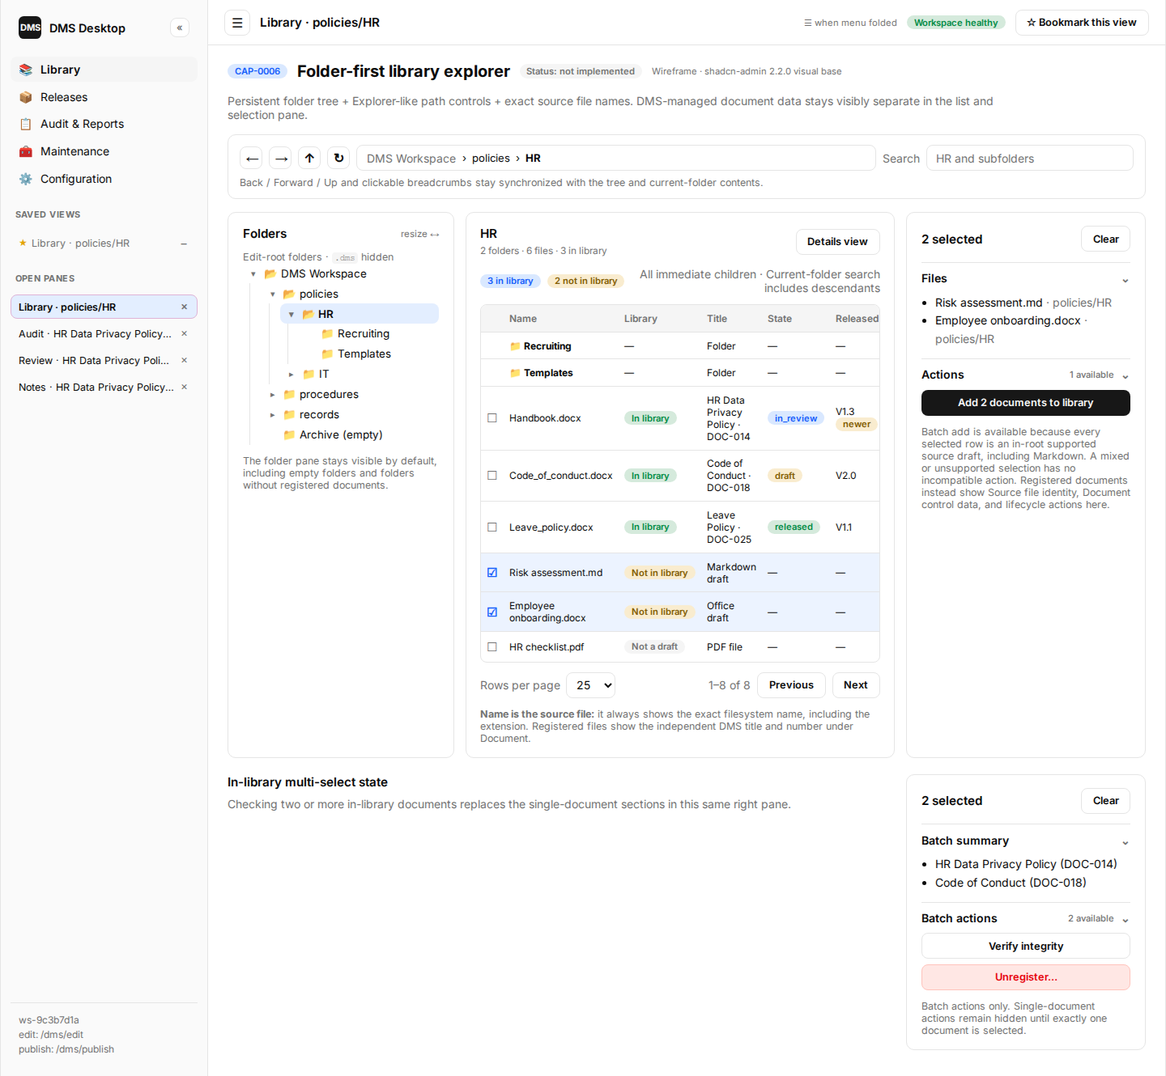
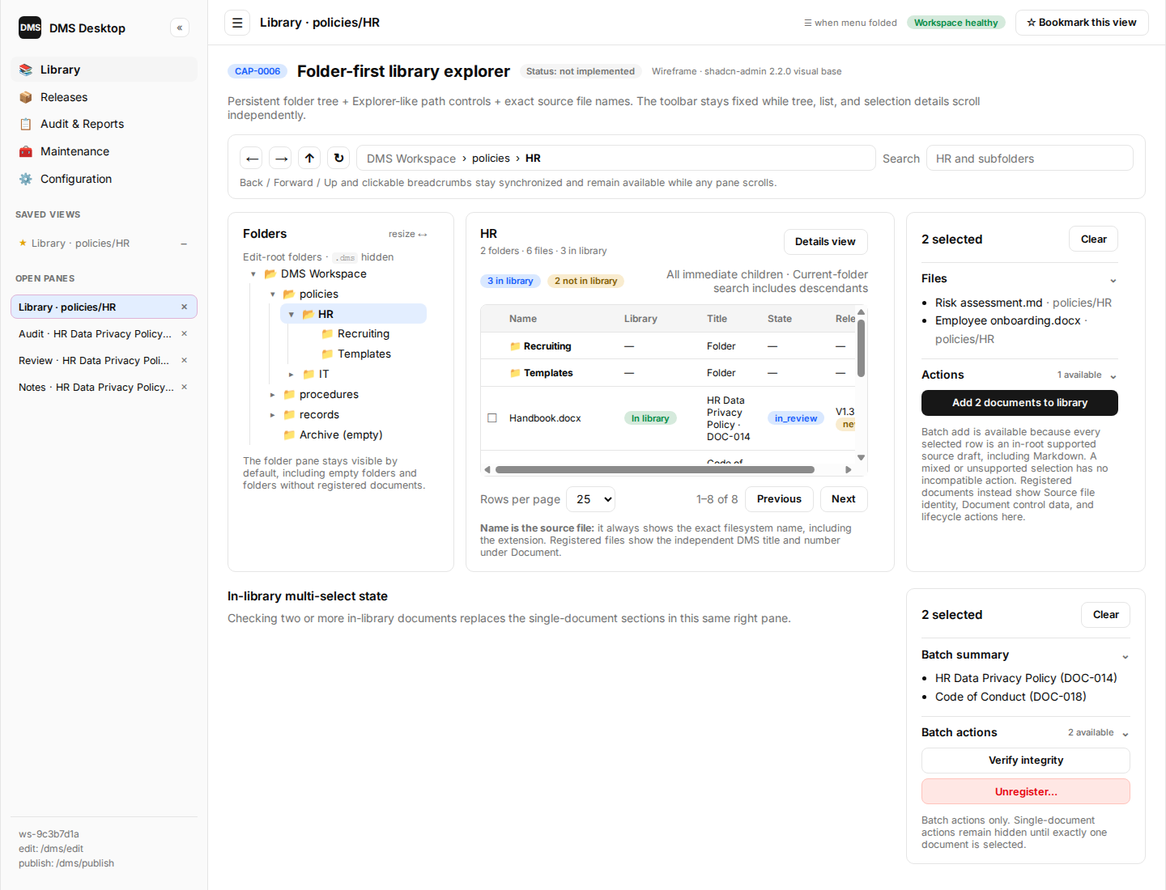
fix(dms): keep navigation fixed while scrolling
- Keep navigation usable while exhaustive document-control data, lifecycle forms, release history, and evidence scroll within their own regions.
- Preserve the sidebar, activity header, and Library path toolbar while normal activities, sidebar groups, the folder tree, file table, and selection pane scroll independently.
- Constrain the desktop shell to the viewport, add regression coverage, and refresh the capability records and wireframes.

This change prevents long workspace content from displacing the controls operators need to navigate the Library.

Verification:
- 55 frontend tests
- cargo fmt, workspace tests, Clippy, and release build
- browser computed-layout and visual QA
- Markdown link/table checks and git diff --check

Affected files/components:
- crates/dms-desktop/ui/styles.css and app.test.mjs
- crates/dms-desktop/AGENTS.md
- docs/product/capabilities/CAP-0005, CAP-0006, and CAP-0015
- docs/product/wireframes generator, HTML, and PNG exports
- docs/changes/active/CHG-0001-tauri-local-dms-bootstrap.md

diff --git a/crates/dms-desktop/ui/styles.css b/crates/dms-desktop/ui/styles.css
@@ -6,14 +6,17 @@
 }
 
 * { box-sizing: border-box; }
-body { margin: 0; min-width: 900px; min-height: 600px; }
+html { height: 100%; }
+body { height: 100%; margin: 0; min-width: 900px; min-height: 600px; overflow: hidden; }
 button, input, textarea { font: inherit; }
 button { cursor: pointer; }
 
 .app {
   display: grid;
   grid-template-columns: 272px minmax(0, 1fr);
-  min-height: 100vh;
+  height: 100vh;
+  min-height: 600px;
+  overflow: hidden;
 }
 
 .app.sidebar-collapsed { grid-template-columns: 64px minmax(0, 1fr); }
@@ -22,7 +25,9 @@ button { cursor: pointer; }
   display: flex;
   flex-direction: column;
   gap: 10px;
+  min-height: 0;
   min-width: 0;
+  overflow: hidden;
   padding: 12px;
   color: #15212c;
   background: #eef2f5;
@@ -82,6 +87,7 @@ button { cursor: pointer; }
   text-transform: uppercase;
 }
 .empty-group { margin: 4px 8px; color: #6c7b87; font-size: 13px; }
+#expanded-groups { min-height: 0; flex: 1; overflow-y: auto; overscroll-behavior: contain; scrollbar-gutter: stable; }
 
 .collapsed-only { display: none; }
 .sidebar-collapsed .expanded-only { display: none !important; }
@@ -120,9 +126,10 @@ button { cursor: pointer; }
   overflow-wrap: anywhere;
 }
 
-.workspace-shell { display: flex; min-width: 0; flex-direction: column; }
+.workspace-shell { display: flex; min-width: 0; min-height: 0; flex-direction: column; overflow: hidden; }
 .main-header {
   display: flex;
+  flex: 0 0 auto;
   align-items: center;
   gap: 12px;
   min-height: 60px;
@@ -132,7 +139,7 @@ button { cursor: pointer; }
 }
 .main-header h1 { margin: 0; font-size: 16px; }
 .header-spacer { flex: 1; }
-.main-content { flex: 1; padding: 28px; }
+.main-content { min-height: 0; flex: 1; padding: 28px; overflow: auto; overscroll-behavior: contain; }
 
 .card {
   max-width: 860px;
@@ -194,6 +201,7 @@ button { cursor: pointer; }
 .library-workspace { display: flex; min-height: 0; height: 100%; flex-direction: column; background: white; }
 .library-toolbar {
   display: flex;
+  flex: 0 0 auto;
   align-items: center;
   gap: 7px;
   min-height: 58px;
@@ -216,14 +224,17 @@ button { cursor: pointer; }
 .sort-control { display: flex; align-items: center; gap: 5px; white-space: nowrap; color: #596a78; font-size: 12px; }
 .sort-control select { height: 32px; border: 1px solid #bdc9d2; border-radius: 6px; background: white; }
 .library-error { margin: 0; padding: 7px 16px; color: #922b21; background: #fff0ed; border-bottom: 1px solid #f0c8c1; font-size: 13px; }
-.library-grid { display: flex; min-height: 0; flex: 1; }
+.library-grid { display: flex; min-height: 0; flex: 1; overflow: hidden; }
 .folder-tree {
   width: 230px;
   min-width: 170px;
   max-width: 420px;
   flex: 0 0 auto;
+  min-height: 0;
   padding: 14px 8px;
   overflow: auto;
+  overscroll-behavior: contain;
+  scrollbar-gutter: stable;
   resize: horizontal;
   background: #f7f9fa;
   border-right: 1px solid #dfe5ea;
@@ -245,7 +256,7 @@ button { cursor: pointer; }
 .folder-contents h2 { margin: 3px 0 0; font-size: 19px; }
 .folder-contents header > span { color: #6b7b87; font-size: 12px; }
 .eyebrow { color: #6b7b87; font-size: 11px; font-weight: 700; letter-spacing: .05em; text-transform: uppercase; }
-.table-scroll { min-height: 0; flex: 1; overflow: auto; }
+.table-scroll { min-height: 0; flex: 1; overflow: auto; overscroll-behavior: contain; scrollbar-gutter: stable; }
 .table-scroll table { width: 100%; border-collapse: collapse; font-size: 13px; }
 .table-scroll th { position: sticky; z-index: 1; top: 0; padding: 8px 10px; color: #5f6f7b; background: #f8fafb; border-bottom: 1px solid #dfe5ea; text-align: left; white-space: nowrap; }
 .table-scroll td { max-width: 280px; padding: 9px 10px; border-bottom: 1px solid #edf0f2; overflow: hidden; text-overflow: ellipsis; white-space: nowrap; }
@@ -261,7 +272,7 @@ button { cursor: pointer; }
 .pagination-row select { height: 29px; border: 1px solid #bdc9d2; border-radius: 5px; background: white; }
 .pagination-row .text-button:disabled { opacity: .4; }
 .pagination-row .button:disabled { cursor: default; opacity: .4; }
-.selection-pane { width: 315px; min-width: 260px; flex: 0 0 auto; padding: 18px; overflow: auto; border-left: 1px solid #dfe5ea; background: #fbfcfd; }
+.selection-pane { width: 315px; min-width: 260px; min-height: 0; flex: 0 0 auto; padding: 18px; overflow: auto; overscroll-behavior: contain; scrollbar-gutter: stable; border-left: 1px solid #dfe5ea; background: #fbfcfd; }
 .selection-pane h3 { margin: 8px 0 4px; font-size: 18px; overflow-wrap: anywhere; }
 .selection-pane p { color: #61717d; line-height: 1.45; }
 .selection-empty { margin-top: 26px; text-align: center; }

diff --git a/docs/product/wireframes/html/CAP-0006-library-explorer.html b/docs/product/wireframes/html/CAP-0006-library-explorer.html
@@ -226,13 +226,25 @@ tr:last-child td { border-bottom: 0; }
         <span class="badge muted">Status: not implemented</span>
         <span class="wire-meta">Wireframe · shadcn-admin 2.2.0 visual base</span>
       </div>
-      <p class="subtitle">Persistent folder tree + Explorer-like path controls + exact source file names. DMS-managed document data stays visibly separate in the list and selection pane.</p>
+      <p class="subtitle">Persistent folder tree + Explorer-like path controls + exact source file names. The toolbar stays fixed while tree, list, and selection details scroll independently.</p>
       
       <style>
-        .app[data-cap="CAP-0006"] .list-card th,
-        .app[data-cap="CAP-0006"] .list-card td { padding: 0.55rem 0.45rem; font-size: 0.75rem; }
-      </style>
-      <section class="card" style="padding:0.75rem 0.9rem">
+    html, body { height: 100%; }
+    body { overflow: hidden; }
+    .app[data-cap="CAP-0006"] { height: 100vh; min-height: 0; overflow: hidden; }
+    .app[data-cap="CAP-0006"] .sidebar { min-height: 0; overflow-y: auto; overscroll-behavior: contain; }
+    .app[data-cap="CAP-0006"] .main { min-height: 0; overflow: hidden; }
+    .app[data-cap="CAP-0006"] .header { flex: 0 0 auto; }
+    .app[data-cap="CAP-0006"] .content { min-height: 0; overflow: auto; overscroll-behavior: contain; }
+    .app[data-cap="CAP-0006"] .list-card th,
+    .app[data-cap="CAP-0006"] .list-card td { padding: 0.55rem 0.45rem; font-size: 0.75rem; }
+    .app[data-cap="CAP-0006"] .explorer-toolbar { position: sticky; z-index: 4; top: 0; }
+    .app[data-cap="CAP-0006"] .explorer-panes { height: min(36rem, calc(100vh - 14rem)); min-height: 24rem; align-items: stretch; }
+    .app[data-cap="CAP-0006"] .explorer-panes > .card { min-height: 0; overflow-y: auto; overscroll-behavior: contain; scrollbar-gutter: stable; }
+    .app[data-cap="CAP-0006"] .explorer-panes .list-card { display: flex; flex-direction: column; }
+    .app[data-cap="CAP-0006"] .explorer-panes .table-wrap { min-height: 0; flex: 1; }
+  </style>
+      <section class="card explorer-toolbar" style="padding:0.75rem 0.9rem">
         <div class="row gap-2">
           <button class="icon-btn" title="Back">←</button>
           <button class="icon-btn" title="Forward">→</button>
@@ -243,9 +255,9 @@ tr:last-child td { border-bottom: 0; }
           </div>
           <label class="muted" style="display:flex;align-items:center;gap:0.45rem">Search <input aria-label="Search current folder and descendants" placeholder="HR and subfolders" style="height:2rem;width:16rem;border:1px solid var(--input);border-radius:calc(var(--radius) - 2px);padding:0 0.7rem;font:inherit;color:var(--foreground);background:var(--background)"/></label>
         </div>
-        <p class="hint" style="margin-top:0.45rem">Back / Forward / Up and clickable breadcrumbs stay synchronized with the tree and current-folder contents.</p>
+        <p class="hint" style="margin-top:0.45rem">Back / Forward / Up and clickable breadcrumbs stay synchronized and remain available while any pane scrolls.</p>
       </section>
-      <div class="grid-explorer-detail" style="grid-template-columns:17.5rem minmax(0,1fr) 18.5rem;align-items:stretch">
+      <div class="grid-explorer-detail explorer-panes" style="grid-template-columns:17.5rem minmax(0,1fr) 18.5rem;align-items:stretch">
         <aside class="card tree">
           <div class="row between mb">
             <h3 class="card-title" style="margin:0">Folders</h3>

diff --git a/docs/product/wireframes/html/CAP-0005-desktop-shell.html b/docs/product/wireframes/html/CAP-0005-desktop-shell.html
@@ -226,8 +226,18 @@ tr:last-child td { border-bottom: 0; }
         <span class="badge muted">Status: not implemented</span>
         <span class="wire-meta">Wireframe · shadcn-admin 2.2.0 visual base</span>
       </div>
-      <p class="subtitle">Tauri 2 shell on Windows and macOS. Foldable left menu, icon-rail flyouts for saved views and open panes, session-only activities, and explicit per-user saved views.</p>
+      <p class="subtitle">Tauri 2 shell on Windows and macOS. Foldable left menu, icon-rail flyouts, session-only activities, explicit saved views, and viewport-contained activity scrolling.</p>
       
+      <style>
+    html, body { height: 100%; }
+    body { overflow: hidden; }
+    .app[data-cap="CAP-0005"] { height: 100vh; min-height: 0; overflow: hidden; }
+    .app[data-cap="CAP-0005"] .sidebar { min-height: 0; overflow-y: auto; overscroll-behavior: contain; }
+    .app[data-cap="CAP-0005"] .main { min-height: 0; overflow: hidden; }
+    .app[data-cap="CAP-0005"] .header { flex: 0 0 auto; }
+    .app[data-cap="CAP-0005"] .content { min-height: 0; overflow: auto; overscroll-behavior: contain; }
+
+  </style>
       <section class="card">
         <h3 class="card-title">Chrome contract</h3>
         <div class="stack">
@@ -236,6 +246,7 @@ tr:last-child td { border-bottom: 0; }
           <div class="layer"><strong>Collapsed group flyouts</strong><p class="muted">Star and pane icons in the collapsed rail open only their Saved views or Open panes flyout; they do not expand the full left menu. Each flyout retains full labels plus open/remove or focus/close actions.</p></div>
           <div class="layer"><strong>Open activity panes/tabs</strong><p class="muted">Automatic, session-only quicklinks. Labels state task + target: Audit · HR Data Privacy Policy · DOC-014 for a document or Library · policies/HR for a folder. Opening the same task + document focuses its existing pane; × closes that activity only.</p></div>
           <div class="layer"><strong>Saved views</strong><p class="muted">Use ☆ Bookmark this view in the header. ★ Bookmarked is an explicit, per-user shortcut restored after relaunch; it is not a .dms workflow record.</p></div>
+          <div class="layer"><strong>Viewport-contained scrolling</strong><p class="muted">The sidebar and activity header stay available. Normal activities scroll inside main content; multi-pane workspaces give navigation, lists, and exhaustive details separate scroll regions.</p></div>
           <div class="layer"><strong>Permalink handler</strong><p class="muted">OS-registered dms:// URI resolves workspace + document IDs (CAP-0020); opens/focuses matching activity tab.</p></div>
         </div>
       </section>

diff --git a/docs/product/wireframes/html/CAP-0015-document-control-data.html b/docs/product/wireframes/html/CAP-0015-document-control-data.html
@@ -226,9 +226,21 @@ tr:last-child td { border-bottom: 0; }
         <span class="badge muted">Status: not implemented</span>
         <span class="wire-meta">Wireframe · shadcn-admin 2.2.0 visual base</span>
       </div>
-      <p class="subtitle">Source file facts come from the filesystem. Document control data is managed by DMS Desktop under .dms, never synchronized from Office properties. All sections are expanded here for review.</p>
+      <p class="subtitle">Source file facts come from the filesystem. Exhaustive DMS-managed control data scrolls in the right pane without moving Library or application navigation.</p>
       
-      <div class="grid-explorer-detail">
+      <style>
+    html, body { height: 100%; }
+    body { overflow: hidden; }
+    .app[data-cap="CAP-0015"] { height: 100vh; min-height: 0; overflow: hidden; }
+    .app[data-cap="CAP-0015"] .sidebar { min-height: 0; overflow-y: auto; overscroll-behavior: contain; }
+    .app[data-cap="CAP-0015"] .main { min-height: 0; overflow: hidden; }
+    .app[data-cap="CAP-0015"] .header { flex: 0 0 auto; }
+    .app[data-cap="CAP-0015"] .content { min-height: 0; overflow: auto; overscroll-behavior: contain; }
+    .app[data-cap="CAP-0015"] .content { overflow: hidden; }
+    .app[data-cap="CAP-0015"] .document-control-panes { min-height: 0; flex: 1; align-items: stretch; }
+    .app[data-cap="CAP-0015"] .document-control-panes > .card { min-height: 0; overflow-y: auto; overscroll-behavior: contain; scrollbar-gutter: stable; }
+  </style>
+      <div class="grid-explorer-detail document-control-panes">
         <aside class="card tree">
           <h3 class="card-title">Folders</h3>
           <ul class="tree-root">
@@ -282,7 +294,7 @@ tr:last-child td { border-bottom: 0; }
     <div class="row gap-2"><span class="muted">1–2 of 2</span><button class="btn outline" disabled>Previous</button><button class="btn outline" disabled>Next</button></div>
   </div>
         </section>
-        <aside class="card detail-pane">
+        <aside class="card detail-pane" aria-label="Scrollable document selection details">
     <div class="row between mb">
       <h3 class="card-title" style="margin:0">HR Data Privacy Policy</h3>
       <span class="badge info">in_review</span>

diff --git a/docs/changes/active/CHG-0001-tauri-local-dms-bootstrap.md b/docs/changes/active/CHG-0001-tauri-local-dms-bootstrap.md
@@ -20,6 +20,7 @@
 | Follow-up request | Direct operator request: There are so many configuration pages just now, and I do not see/know how sould the user navigate through all of them |
 | Follow-up request | Direct operator request: the Library folder element must be a real hierarchical tree view, and an unfolded left menu must retain its state when an action or destination is selected |
 | Follow-up request | Direct operator request: on the initial Library/setup page, retain the last 10 opened libraries with per-entry removal; every directory-selection field must offer native directory browsing starting at the OS user's home directory |
+| Follow-up request | Direct operator request: The UI concept should be adapted for scrolling, so the areas where navigation happens are not affected by scrolling in areas like document control data that can be very exchaustive and long |
 | Affected CAPs | CAP-0001 … CAP-0022 |
 | Decision records | ADR-0001 … ADR-0023 in `docs/design-decisions.md` |
 
@@ -159,6 +160,7 @@ macOS** that:
 | 9f.2 | Local lifecycle and evidence actions | done (`cargo fmt --all -- --check`; `cargo test --workspace`; Clippy with warnings denied; 46 frontend tests; records/link gates) | The Library selection pane invokes Begin revision, Cancel review with a required reason and confirmation, Mark obsolete with a required reason and confirmation, and opens canonical workflow evidence; unavailable transitions explain their preconditions; adapter/frontend tests pass |
 | 9f.3 | Workspace and Document defaults configuration | done (`cargo fmt --all -- --check`; `cargo test --workspace`; Clippy with warnings denied; 51 frontend tests; release build; Linux launch smoke; records/link and browser visual QA) | One routed Configuration activity provides Workspace and Document defaults routes, persists supported local core settings and catalogue operations, and keeps workspace setup as the only pre-open route; adapter/frontend tests pass |
 | 9f.4 | Workflow and Notifications configuration | done (`cargo fmt --all -- --check`; `cargo test --workspace`; Clippy with warnings denied; 54 frontend tests; release build; Linux launch smoke; records/link gates; browser visual QA) | The same routed Configuration activity provides Workflow and Notifications routes plus explicit identity-source and confidentiality-catalogue secondary surfaces without creating duplicate activities; adapter/frontend tests pass |
+| 9f.5 | Viewport-scoped shell and independent workspace scrolling | done (`cargo fmt --all -- --check`; `cargo test --workspace`; Clippy with warnings denied; release build; 55 frontend tests; regenerated wireframes; browser computed-layout and visual QA; `git diff --check`) | The sidebar and main activity header remain available while ordinary activity content scrolls inside the viewport; the Library path toolbar remains fixed while its folder tree, current-folder table, and exhaustive selection details scroll independently; frontend layout tests pass |
 | 9g | Permalink OS integration | pending | Windows and macOS register `dms://`; inbound document/review/note links resolve workspace + stable document identity, focus or create the correct activity, survive rename/version changes, and fail closed for unavailable targets; platform smoke passes |
 | 9h | Operator-selected Claude excerpts | pending | Oversized assistance payloads show their size and selectable excerpts; preview retries only with the operator-selected subset, never silently truncates, and still requires digest-bound consent; core, adapter, and frontend tests pass |
 | 9i | Live Office, Entra, notification, and external lifecycle paths | pending | Production submit/review/decision/release commands and their desktop operator surfaces wire installed Office automation on Windows/macOS, administrator-configured Microsoft Graph refresh, interactive approver sign-in through OS credential storage, and SMTP/host-mail delivery without storing credentials in `.dms`; fake-backed tests and operator smoke instructions pass |
@@ -296,6 +298,14 @@ macOS** that:
   commands are required phase work. Workflow, Notifications, Microsoft Entra
   identity setup, and confidentiality catalogue administration remain phase
   9f.4 scope.
+- Phase 9f.5 corrects viewport containment rather than adding another navigation
+  model. The pane-level overflow rules existed, but the outer shell could still
+  grow with exhaustive document details and move the sidebar or activity header.
+  The shell now owns the window viewport, ordinary activities own the main
+  content scroll, and Library navigation, contents, and details keep separate
+  scroll regions. Browser QA at a 720 px viewport measured no document-level
+  overflow, a 520 px selection viewport over 1,890 px of detail content, and
+  unchanged sidebar/header positions after scrolling the detail pane 500 px.
 
 ## Resume checklist
 

diff --git a/docs/product/capabilities/CAP-0015-document-control-data.md b/docs/product/capabilities/CAP-0015-document-control-data.md
@@ -5,7 +5,7 @@
 | ID | CAP-0015 |
 | Status | not implemented |
 | Storage | `<edit-root>/.dms/` |
-| Tests | Partial phases 9e–9f.3 evidence: [current-release and local lifecycle core tests](../../../crates/dms-core/tests/lifecycle.rs), [schema-v9 effective-date and canonical before/after evidence tests](../../../crates/dms-core/tests/workspace.rs), [desktop adapter commands](../../../crates/dms-desktop/src/lib.rs), [Library document-control, lifecycle, and evidence-action tests](../../../crates/dms-desktop/ui/library.test.mjs), [document-type catalogue tests](../../../crates/dms-desktop/ui/configuration.test.mjs) |
+| Tests | Partial phases 9e–9f.5 evidence: [current-release and local lifecycle core tests](../../../crates/dms-core/tests/lifecycle.rs), [schema-v9 effective-date and canonical before/after evidence tests](../../../crates/dms-core/tests/workspace.rs), [desktop adapter commands](../../../crates/dms-desktop/src/lib.rs), [shell and independent-pane scrolling tests](../../../crates/dms-desktop/ui/app.test.mjs), [Library document-control, lifecycle, and evidence-action tests](../../../crates/dms-desktop/ui/library.test.mjs), [document-type catalogue tests](../../../crates/dms-desktop/ui/configuration.test.mjs) |
 
 ## Outcomes (contract — not yet true in runtime)
 
@@ -85,7 +85,10 @@ When implemented, the following must hold:
     is folded. Document actions sit in the same pane under the document control
     data block. When a current released version exists, **Open latest released PDF**
     opens only that release record's recorded PDF; it is unavailable for a
-    never-released document or when the current release file is missing.
+    never-released document or when the current release file is missing. When
+    these sections exceed the available window height, the selection pane
+    scrolls independently under CAP-0006; its scroll never moves Library or
+    application navigation.
 12. Title, document type, and owner are required before review submission.
     Document number, when set, is trimmed and case-insensitively unique across
     active, unregistered, and obsolete records; a historical number is not

diff --git a/docs/product/capabilities/CAP-0006-library-explorer.md b/docs/product/capabilities/CAP-0006-library-explorer.md
@@ -4,7 +4,7 @@
 | --- | --- |
 | ID | CAP-0006 |
 | Status | not implemented |
-| Tests | Partial phases 3, 9b.1, 9e, 9f.1, and 9f.2 evidence: [`dms-core` Library tests](../../../crates/dms-core/tests/library.rs), [local lifecycle tests](../../../crates/dms-core/tests/lifecycle.rs), [`dms-desktop` adapter tests](../../../crates/dms-desktop/src/lib.rs), [hierarchical Library, document-action, and workflow-evidence frontend tests](../../../crates/dms-desktop/ui/library.test.mjs), [Windows/macOS smoke](https://github.com/videoclinic/dms/actions/runs/31359360786) |
+| Tests | Partial phases 3, 9b.1, 9e, 9f.1, 9f.2, and 9f.5 evidence: [`dms-core` Library tests](../../../crates/dms-core/tests/library.rs), [local lifecycle tests](../../../crates/dms-core/tests/lifecycle.rs), [`dms-desktop` adapter tests](../../../crates/dms-desktop/src/lib.rs), [shell and independent-pane scrolling tests](../../../crates/dms-desktop/ui/app.test.mjs), [hierarchical Library, document-action, and workflow-evidence frontend tests](../../../crates/dms-desktop/ui/library.test.mjs), [Windows/macOS smoke](https://github.com/videoclinic/dms/actions/runs/31359360786) |
 
 ## Outcomes (contract — not yet true in runtime)
 
@@ -34,6 +34,12 @@ When implemented, the following must hold:
      plus a clickable breadcrumb rooted at the workspace/edit-root display
      name. Up is unavailable at the root. Tree selection, breadcrumb, current
      folder heading, and centre contents stay synchronized.
+   - The current-folder toolbar stays available while pane content scrolls.
+     The folder tree, centre contents, and right selection/details pane are
+     separate vertical scroll regions. Exhaustive document control data,
+     lifecycle forms, release history, or workflow evidence in the right pane
+     never moves the toolbar, folder tree, centre contents, main activity
+     header, or application sidebar.
    - A Windows Explorer-like **Refresh** icon in the path toolbar, immediately
      before the breadcrumb, re-enumerates the edit-root structure after external
      filesystem changes. It never adds a file to the library or changes a

diff --git a/docs/product/capabilities/CAP-0005-desktop-shell.md b/docs/product/capabilities/CAP-0005-desktop-shell.md
@@ -113,7 +113,15 @@ When implemented, the following must hold:
 14. The left menu foot shows the current workspace identity (display name or
     workspace ID) and root path summary when expanded; the foot is hidden
     when the menu is collapsed to keep the rail narrow.
-15. Every operator-facing data table whose result set can grow as workspace
+15. The application shell is contained to the current window viewport. The
+    sidebar brand, primary destinations, workspace foot, and main activity
+    header do not move when activity content scrolls. Ordinary activities
+    scroll inside the main-content region. A multi-pane workspace may give its
+    navigation, list, and detail panes independent scroll regions; scrolling
+    one region never shifts the shell chrome or sibling navigation. When Saved
+    views and Open panes exceed the sidebar height, those lists scroll without
+    moving the primary destinations or workspace foot.
+16. Every operator-facing data table whose result set can grow as workspace
     content or durable records accumulate provides a case-insensitive,
     surface-appropriate text filter and a **Rows per page** choice of 10, 25,
     50, or 100. Filtering applies before pagination; clearing the filter,
@@ -121,7 +129,7 @@ When implemented, the following must hold:
     row. Previous/Next pagination is available only when the filtered result
     exceeds the selected page size. Tables that enumerate a bounded fixed
     product configuration are excluded.
-16. Before a workspace is open, the shell shows the ten most recently opened
+17. Before a workspace is open, the shell shows the ten most recently opened
     libraries from per-user preferences. Each entry opens that edit root and
     has a separate removal control; removal never modifies workspace metadata
     or files.

diff --git a/crates/dms-desktop/AGENTS.md b/crates/dms-desktop/AGENTS.md
@@ -43,6 +43,10 @@ macOS.
 - Change the persisted sidebar preference or current-session unfolded overlay
   only through an explicit sidebar control. Destination, saved-view, open-pane,
   and in-surface actions must preserve the current sidebar presentation.
+- Contain the shell to the window viewport. Keep the sidebar and activity header
+  outside activity scrolling; ordinary activities scroll in main content. In the
+  Library, keep the path toolbar fixed and let the folder tree, file table, and
+  selection details scroll independently.
 - Give every directory-selection field a native **Browse…** action through the
   desktop adapter. Start its picker at the OS user's home directory and leave
   the field unchanged when selection is cancelled.
